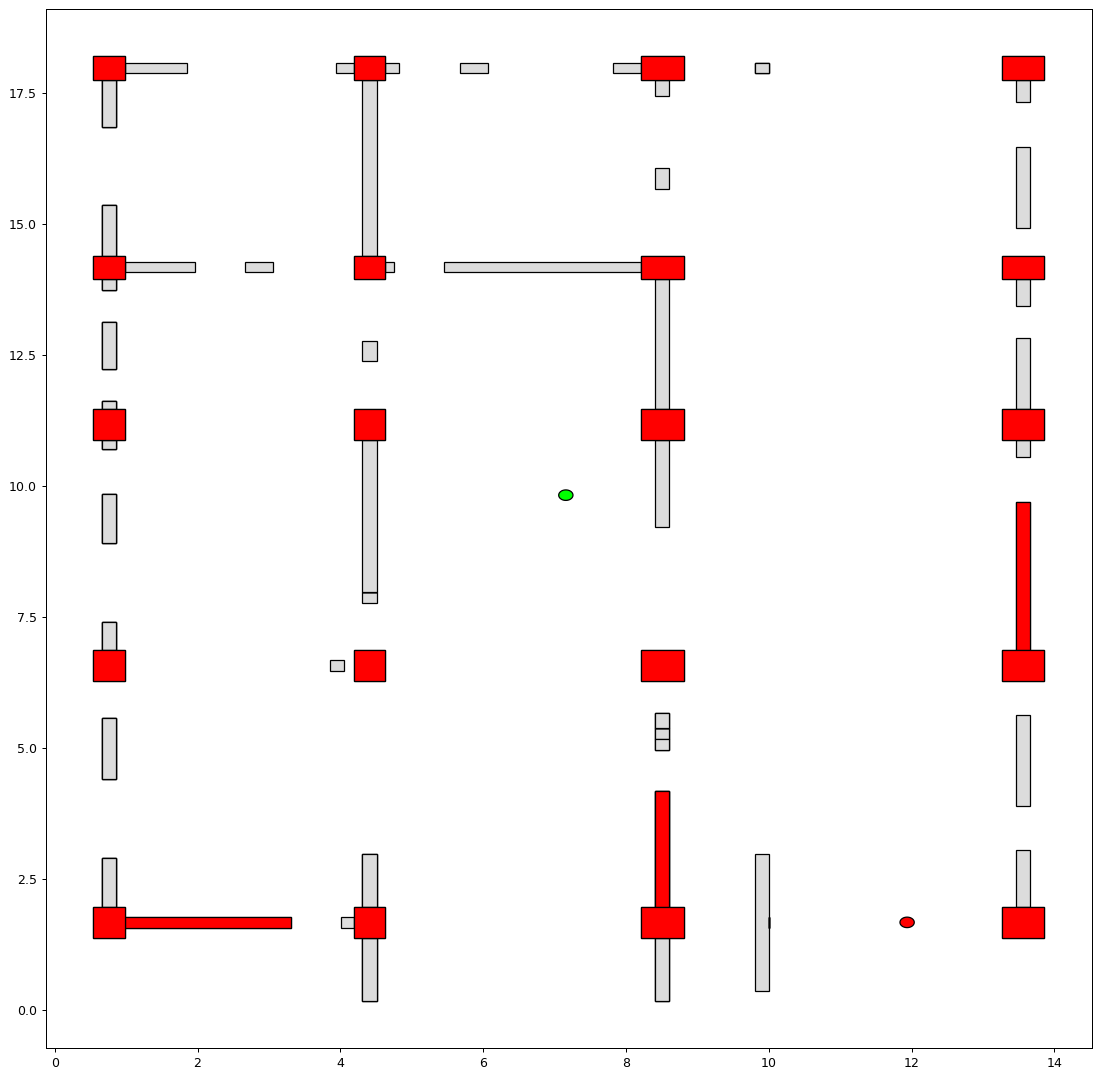
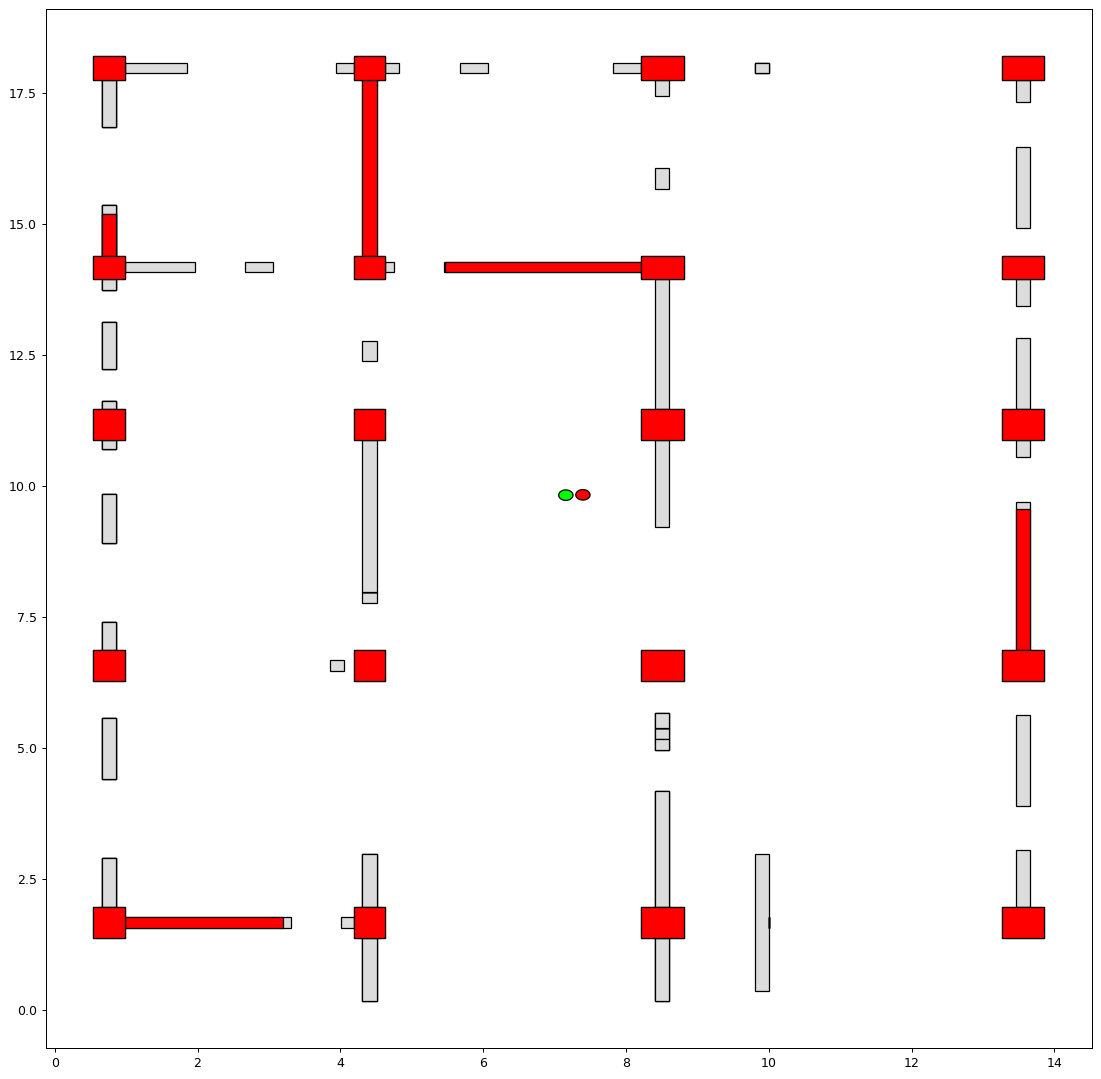
Latest update with the generic configuration

diff --git a/UI/main.py b/UI/main.py
@@ -342,7 +342,7 @@ class TryApp(QtWidgets.QMainWindow, Show2DWindow.Ui_MainWindow):
                     print('Progress', l/len(combs)*100,'%','_',l)
                     l=l+1
                 # while j==1 :
-
+                # comb = [0,0,0,0]
                     solution = None
 
                     for i in range(1):
@@ -356,19 +356,19 @@ class TryApp(QtWidgets.QMainWindow, Show2DWindow.Ui_MainWindow):
                             LS = self.skeletonLevels[len(self.skeletonLevels)-1]
                             solution = self.solutions[LS]
                         fitness = solution.getFitness(constraints=self.constraints)
-                        scores.append([fitness['sym'],fitness['area'],fitness['rad'],fitness['distribution'],fitness['totalScore']])
+                        scores.append([fitness['rad'],fitness['sym'],fitness['lengthShearX'],fitness['lengthShearY'],fitness['distance'],fitness['totalScore']])
                         distributionScore = fitness['distribution']
                         SYM = fitness['sym']
                         print('result gave ', distributionScore, SYM)
-                        # j = 2
+                                # j = 2
 
-                    # overlapscore = fitness['overlapped']
-                    # print("here condition out", distributionScore, overlapscore )
-                self.solutions[levelSkeleton] = solution
+                            # overlapscore = fitness['overlapped']
+                            # print("here condition out", distributionScore, overlapscore )
+                    self.solutions[levelSkeleton] = solution
             for l in range(len(scores)):
                 if (l%2) == 0:
                     score = scores[l]
-                    f.write(str(score[0])+ "/" +str(score[1])+ "/" +str(score[2])+ "/" +str(score[3])+ "/" + str(score[4]) +  "\n")
+                    f.write(str(score[0])+ "/" +str(score[1])+ "/" +str(score[2])+ "/" +str(score[3])+ "/" + str(score[4]) + "/" + str(score[5])+  "\n")
             self.saveSkeletons(dirname)
             count += 1
 
@@ -594,7 +594,7 @@ def createShapes(file):
     return wShapes, sShapes
 
 def main():
-    file = "../IFCFiles/R+3.ifc"
+    file = "../IFCFiles/ref.ifc"
     wShapes, sShapes = createShapes(file)
     space_shapes = getSpaceShapesFromIfc(file)
     space_shapes = [s for _, s in space_shapes]

diff --git a/Optimization/Genetic/Evaluator.py b/Optimization/Genetic/Evaluator.py
@@ -109,28 +109,38 @@ def calculateFitnessSolution(solution, constraints=None, comb = [0,0,0,0]):
         print((momentx, momenty))
         eval(input())
     # radiuses = (Rx + Ry)/(abs(Rx-Ry)+0.000001) #abs(1-(Ry/(momentx+momenty))) + abs(1-(Rx/(momentx+momenty)))
-    rx = math.sqrt(momentx/levelSkeleton.slabSkeleton.poly.area())   # Torsional radius
-    ry = math.sqrt(momenty/levelSkeleton.slabSkeleton.poly.area())
-    radiuses= (Rx/rx + Ry/ry)*0.5
+    # rx = math.sqrt(momentx/levelSkeleton.slabSkeleton.poly.area())   # Torsional radius
+    # ry = math.sqrt(momenty/levelSkeleton.slabSkeleton.poly.area())
+    # radiuses= (Rx/rx + Ry/ry)*0.5
+
+    def rad_norms(slab_poly, Needed):
+        minx, maxx = min([pnt.x() for pnt in slab_poly]), max([pnt.x() for pnt in slab_poly])
+        miny, maxy = min([pnt.y() for pnt in slab_poly]), max([pnt.y() for pnt in slab_poly])
+
+        s = math.pow((maxx - minx) / 2, 2) * Needed + math.pow((maxy - miny) / 2, 2) * Needed
+        return s / Needed, s / Needed
+
+    norm_rx, norm_ry = rad_norms(levelSkeleton.slabSkeleton.poly.points, math.pow(needed,3))
+    radiuses = 3*((Rx / norm_rx + Ry / norm_ry) / 2)
+
     scoreDist = levelSkeleton.ScoreOfUnacceptableVoiles()[0]
     # scoreDist = 0
     a = solution.getOverlappedArea(constraints['d'])
-
     effectiveArea = solution.getEffectiveArea()
     overlappedArea = solution.geteffectiveOverlappedArea(effectiveArea)
 
     ex = abs(cntr.x() - centerV.x())
     ey = abs(cntr.y() - centerV.y())
     coeffs = {
-        'rad': comb[2],
-        'sym': comb[0],
-        'lengthShearX': 0,
-        'lengthShearY': 0,
+        'rad': comb[0],
+        'sym': comb[1],
+        'lengthShearX': comb[2],
+        'lengthShearY': comb[2],
         'overlapped': 0 ,
         # 'unif': 0,
-        'area': comb[1],
-        'distance': 0,
-        'distribution': comb[3],
+        'area': 0,
+        'distance': comb[3],
+        'distribution': 0,
     }
     # print('this combination is', comb)
     def getScoreLength(lengthA,total):

diff --git a/Optimization/Genetic/GeneticAlgorithm.py b/Optimization/Genetic/GeneticAlgorithm.py
@@ -19,8 +19,8 @@ def generatePopulation(levelSkeleton,popSize, ratio):
         for wallskeleton in ReserveWallS:
             levelSkeleton.wallSkeletons.append(wallskeleton)
             Ssolution.levelSkeleton.wallSkeletons.append(wallskeleton)
-        if Ssolution.levelSkeleton.ScoreOfUnacceptableVoiles()[0]>0.99:
-            solutions.append(Ssolution)
+        # if Ssolution.levelSkeleton.ScoreOfUnacceptableVoiles()[0]>0.99:
+        solutions.append(Ssolution)
     return solutions
 
 def selection(population,probability,fitnesses):
@@ -56,7 +56,7 @@ def search(levelSkeleton,popSize=50,crossRate=0.5,mutRate=0.65,maxIterations=1
     i=0
     # for i in range(maxIterations):
 
-    while i<100 :
+    while i<50 :
         # tracker.print_diff()
         # print(("len population: " + str(len(population))))
         # print(("iteration: " + str(i)))
@@ -81,14 +81,15 @@ def search(levelSkeleton,popSize=50,crossRate=0.5,mutRate=0.65,maxIterations=1
             # stop = timeit.default_timer()
             # print(("time it took selection: " + str(stop - start)))
             # start = timeit.default_timer()
+
         for s1, s2 in selected:
             s3,s4 = geneticOps.cross(s1,s2)
-            a = s3.levelSkeleton.ScoreOfUnacceptableVoiles()[0]
-            b = s4.levelSkeleton.ScoreOfUnacceptableVoiles()[0]
-            # print('passed')
-            if a > 0.99 and b > 0.99:
-                newComers.append(s3)
-                newComers.append(s4)
+            # a = s3.levelSkeleton.ScoreOfUnacceptableVoiles()[0]
+            # b = s4.levelSkeleton.ScoreOfUnacceptableVoiles()[0]
+            # # print('passed')
+            # if a > 0.99 and b > 0.99:
+            newComers.append(s3)
+            newComers.append(s4)
 
         # print('new comers', len(newComers))
 

diff --git a/Skeleton/LevelSkeleton.py b/Skeleton/LevelSkeleton.py
@@ -131,21 +131,21 @@ class LevelSkeleton(Skelet):
         return Hdim, Vdim
 
     def getVoileLengthNeeded(self, weight=1, ColumnsLength=0):
-        # height = self.level.heighestZ
-        # coeff = 1.3*weight
-        # if height < 30:
-        #     coeff = 0.7*weight
-        #     print("here coef2",coeff)
-        # return coeff * height * self.slabSkeleton.poly.area() / 100
+        height = self.level.heighestZ
+        coeff = 1.3*weight
+        if height < 30:
+            coeff = 0.7*weight
+            # print("here coef2",coeff)
+        return 0.5*(coeff * height * self.slabSkeleton.poly.area() / 100)
 
-        Height = self.level.getHeightOverLowerLevel()+0.3
-        D = 1.5*Height
-        neededLength = 0.2*self.slabSkeleton.poly.area()/3-D
-        # print("here area",self.slabSkeleton.poly.area())
-        # print("NEEEEDED",neededLength)
-        # if neededLength < 0.8: neededLength = 0.8
-        # (0.125 * self.slabSkeleton.poly.area() / 2.4) - 1
-        return 3
+        # Height = self.level.getHeightOverLowerLevel()+0.3
+        # D = 1.5*Height
+        # neededLength = 0.2*self.slabSkeleton.poly.area()/3-D
+        # # print("here area",self.slabSkeleton.poly.area())
+        # # print("NEEEEDED",neededLength)
+        # # if neededLength < 0.8: neededLength = 0.8
+        # # (0.125 * self.slabSkeleton.poly.area() / 2.4) - 1
+        # return 3
 
     def getWallsTotalLength(self):
         length = 0
@@ -191,7 +191,7 @@ class LevelSkeleton(Skelet):
             Ry = math.sqrt((ssumX2Ly3 + ssumY2Lx3)/ssumLx3)
         if ssumLy3 != 0:
             Rx = math.sqrt((ssumY2Lx3 + ssumX2Ly3)/ssumLy3)
-        return math.sqrt(Rx), math.sqrt(Ry)
+        return Rx, Ry
 
     def getCenterFromShear(self):
         sumLiX = 0

diff --git a/Optimization/Genetic/GeneticOperations2.py b/Optimization/Genetic/GeneticOperations2.py
@@ -40,13 +40,13 @@ def cross(solution1,solution2):
     for wall in reserve2: resultWalls2.append(wall)
     s1 = Solution(LevelSkeleton(resultWalls1,levelS1.slabSkeleton,levelS1.level))
     s2 = Solution(LevelSkeleton(resultWalls2,levelS1.slabSkeleton,levelS1.level))
-    a = s1.levelSkeleton.ScoreOfUnacceptableVoiles()
-    b = s2.levelSkeleton.ScoreOfUnacceptableVoiles()
-    # print(a,b)
-    if 0<a[0]<0.9:
-        s1 = fixShortbeam(s1,a)
-    if 0<b[0]<0.9:
-        s1 = fixShortbeam(s2,b)
+    # a = s1.levelSkeleton.ScoreOfUnacceptableVoiles()
+    # b = s2.levelSkeleton.ScoreOfUnacceptableVoiles()
+    # # print(a,b)
+    # if 0<a[0]<0.9:
+    #     s1 = fixShortbeam(s1,a)
+    # if 0<b[0]<0.9:
+    #     s1 = fixShortbeam(s2,b)
     return s1,s2
 
 def fixShortbeam(solution, problemwalls):
@@ -129,8 +129,8 @@ def mutate(solution,mutationSize=None):
     for wall in Walls: levelSkeleton.wallSkeletons.append(wall)
     for Column in Columns:
         levelSkeleton.wallSkeletons.append(Column)
-    if levelSkeleton.ScoreOfUnacceptableVoiles()[0]<0.9:
-        solution = fixShortbeam(solution, levelSkeleton.ScoreOfUnacceptableVoiles())
+    # if levelSkeleton.ScoreOfUnacceptableVoiles()[0]<0.9:
+    #     solution = fixShortbeam(solution, levelSkeleton.ScoreOfUnacceptableVoiles())
     return solution
 
 def mutateWall(wallSkeleton,positive=True,mutationSize=1):

diff --git a/Optimization/TabuSearch/TabuSearch.py b/Optimization/TabuSearch/TabuSearch.py
@@ -148,7 +148,7 @@ def fitness(solution: AxesSolution,Axes,Slab,potentialC) -> float:
     score4 = solution.get_equidistance()
 
     # print("score1:",score1,"score2:",score2,"score3:",score3)
-    fitness= 1/(1+score1+score2+3*score3+0.1*score4)
+    fitness= 1/(1+0.5*score1+score2+3*score3+0.1*score4)
     return fitness
 
 
